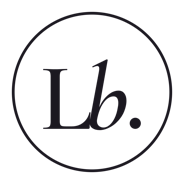
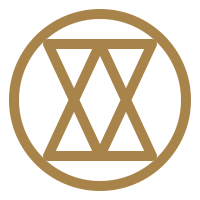
Emails: new fold mark + origami facet; fix stale Lb./Lifebook branding
Every email (daily brief, sign-in code, invitations, surfaced-task, review and
event reminders) and the push-notification icon were still showing the old
Lifebook "Lb." mark, and the sign-in + invite emails carried a "Lifebook"
wordmark two rebrands out of date.

- Regenerate email-mark.png as the gold fold mark; version the URL (?v=2) across
  all templates + the client notification icon so caches fetch it fresh.
- Fix the "Lifebook" wordmark to "LifeFold" in the sign-in and invite emails.
- Add a subtle origami facet to each email header: a folded-paper gradient with a
  seamless solid fallback, so Apple Mail/iOS show the fold and Gmail/Outlook fall
  back to clean paper (no broken layout).

diff --git a/worker/index.js b/worker/index.js
@@ -2583,8 +2583,8 @@ function brandedSystemEmail({ home, eyebrow, headline, bodyHtml, ctaHref, ctaLab
   <table role="presentation" width="100%" cellpadding="0" cellspacing="0" style="background:${PAPER};padding:34px 0 46px">
     <tr><td align="center" style="padding:0 12px">
       <table role="presentation" width="100%" cellpadding="0" cellspacing="0" style="width:100%;max-width:560px;background:${CARD};border:1px solid ${RULE};border-radius:2px">
-        <tr><td align="center" style="padding:40px 34px 0">
-          <a href="${home}" style="text-decoration:none"><img src="https://lifefold.co/email-mark.png" width="46" height="46" alt="LifeFold" style="display:block;margin:0 auto;border:0;outline:none;text-decoration:none"></a>
+        <tr><td align="center" style="padding:40px 34px 0;background:${CARD};background-image:linear-gradient(121deg, rgba(255,251,242,0.7) 0 44%, rgba(168,132,74,0.055) 44.6%)">
+          <a href="${home}" style="text-decoration:none"><img src="https://lifefold.co/email-mark.png?v=2" width="46" height="46" alt="LifeFold" style="display:block;margin:0 auto;border:0;outline:none;text-decoration:none"></a>
           ${eyebrow ? `<p style="margin:9px 0 0;font-family:${SANS};font-size:12px;letter-spacing:0.34em;text-transform:uppercase;color:${MIST}">${escHtml(eyebrow)}</p>` : ''}
           <p style="margin:14px 0 0;font-family:${SERIF};font-size:30px;line-height:1.25;color:${INK}">${escHtml(headline)}</p>
         </td></tr>

diff --git a/public/app.html b/public/app.html
@@ -11,7 +11,7 @@
      while scrolling. The app linkifies real http(s) URLs itself. -->
 <meta name="format-detection" content="telephone=no, date=no, address=no, email=no">
 <title>LifeFold</title>
-<link rel="icon" href="/favicon.svg?v=202610210008">
+<link rel="icon" href="/favicon.svg?v=202610210956">
 <!-- Installable to the home screen: launches full-screen with its own icon. -->
 <link rel="manifest" href="/manifest.webmanifest">
 <link rel="apple-touch-icon" href="/apple-touch-icon.v10.png">
@@ -21,7 +21,7 @@
 <meta name="apple-mobile-web-app-title" content="LifeFold">
 <meta name="theme-color" content="#f4f1ea" media="(prefers-color-scheme: light)">
 <meta name="theme-color" content="#131019" media="(prefers-color-scheme: dark)">
-<link rel="stylesheet" href="/life.css?v=202610210008">
+<link rel="stylesheet" href="/life.css?v=202610210956">
 <script>
   try {
     const t = localStorage.getItem('today.theme');
@@ -53,7 +53,7 @@
   <button class="undo-fab" id="undo-fab" data-undo type="button" aria-label="Undo the last change" title="Undo"><span class="uf-ic" aria-hidden="true">↶</span><span class="uf-l">Undo</span></button>
   <div id="palette"></div>
   <div id="toast" class="toast" hidden></div>
-  <script src="/qrcode.min.js?v=202610210008"></script>
-  <script src="/app.js?v=202610210008"></script>
+  <script src="/qrcode.min.js?v=202610210956"></script>
+  <script src="/app.js?v=202610210956"></script>
 </body>
 </html>

diff --git a/worker/invite-email.js b/worker/invite-email.js
@@ -33,9 +33,9 @@ export function inviteEmail({ from, message, link, tagline, accent }) {
       <!-- Fluid card: 100% up to a 440px cap, so it fits a phone screen. -->
       <table role="presentation" width="100%" cellpadding="0" cellspacing="0" style="width:100%;max-width:440px;background:#fbf9f4;border-radius:18px;overflow:hidden;border:1px solid #e4ddcf">
 
-        <tr><td style="padding:34px 38px 0" align="center">
-          <img src="https://lifefold.co/email-mark.png" width="46" height="46" alt="LifeFold" style="display:block;margin:0 auto;border:0;outline:none;text-decoration:none">
-          <p style="margin:13px 0 0;font-family:Georgia,'Times New Roman',serif;font-size:27px;font-weight:700;letter-spacing:-0.01em;color:#211c17">Life<i>book</i></p>
+        <tr><td style="padding:34px 38px 0;background:#fbf9f4;background-image:linear-gradient(121deg, rgba(255,251,242,0.7) 0 44%, rgba(168,132,74,0.055) 44.6%)" align="center">
+          <img src="https://lifefold.co/email-mark.png?v=2" width="46" height="46" alt="LifeFold" style="display:block;margin:0 auto;border:0;outline:none;text-decoration:none">
+          <p style="margin:13px 0 0;font-family:Georgia,'Times New Roman',serif;font-size:27px;font-weight:700;letter-spacing:-0.01em;color:#211c17">Life<i>Fold</i></p>
         </td></tr>
 
         <tr><td style="padding:22px 38px 0">

diff --git a/worker/auth.js b/worker/auth.js
@@ -376,9 +376,9 @@ export function codeEmail(code, kind) {
              name and the tagline. alt is empty on purpose: with images off the
              serif wordmark below already says LifeFold, so a blocked image
              should leave nothing behind rather than a second "LifeFold". -->
-        <tr><td style="padding:34px 38px 0" align="center">
-          <img src="https://lifefold.co/email-mark.png" width="46" height="46" alt="LifeFold" style="display:block;margin:0 auto;border:0;outline:none;text-decoration:none">
-          <p style="margin:13px 0 0;font-family:Georgia,'Times New Roman',serif;font-size:27px;font-weight:700;letter-spacing:-0.01em;color:#211c17">Life<i>book</i></p>
+        <tr><td style="padding:34px 38px 0;background:#fbf9f4;background-image:linear-gradient(121deg, rgba(255,251,242,0.7) 0 44%, rgba(168,132,74,0.055) 44.6%)" align="center">
+          <img src="https://lifefold.co/email-mark.png?v=2" width="46" height="46" alt="LifeFold" style="display:block;margin:0 auto;border:0;outline:none;text-decoration:none">
+          <p style="margin:13px 0 0;font-family:Georgia,'Times New Roman',serif;font-size:27px;font-weight:700;letter-spacing:-0.01em;color:#211c17">Life<i>Fold</i></p>
         </td></tr>
 
         <!-- A warm keyline. Solid cells: gradients are the first thing Outlook drops. -->

diff --git a/worker/brief.js b/worker/brief.js
@@ -193,8 +193,8 @@ export function briefEmail({ day, events = [], tasks = [], quote = null, siteUrl
 
         <!-- The LifeFold mark as a PNG: the favicon is an SVG and every major
              client strips those. Same file the sign-in and invitation emails use. -->
-        <tr><td align="center" style="padding:40px 34px 0">
-          <a href="${siteUrl}" style="text-decoration:none"><img src="https://lifefold.co/email-mark.png" width="46" height="46" alt="LifeFold" style="display:block;margin:0 auto;border:0;outline:none;text-decoration:none"></a>
+        <tr><td align="center" style="padding:40px 34px 0;background:${CARD};background-image:linear-gradient(121deg, rgba(255,251,242,0.7) 0 44%, rgba(168,132,74,0.055) 44.6%)">
+          <a href="${siteUrl}" style="text-decoration:none"><img src="https://lifefold.co/email-mark.png?v=2" width="46" height="46" alt="LifeFold" style="display:block;margin:0 auto;border:0;outline:none;text-decoration:none"></a>
           <p style="margin:22px 0 0;font-family:${SERIF};font-size:30px;line-height:1.25;color:${INK}">${esc(longDate(day))}</p>
           <p style="margin:9px 0 0;font-family:${SANS};font-size:12px;letter-spacing:0.34em;text-transform:uppercase;color:${MIST}">Good morning</p>
         </td></tr>

diff --git a/public/index.html b/public/index.html
@@ -30,8 +30,8 @@
     document.documentElement.dataset.theme = dark ? 'dark' : 'light';
   })();
 </script>
-<link rel="stylesheet" href="/today.css?v=202610210008">
-<link rel="icon" href="/favicon.svg?v=202610210008">
+<link rel="stylesheet" href="/today.css?v=202610210956">
+<link rel="icon" href="/favicon.svg?v=202610210956">
 <!-- Analytics (VisitorTracking + Google Analytics), loaded ONLY after consent -->
 <style>
 .dbk-consent { position:fixed; left:0; right:0; bottom:0; z-index:99999; display:flex; flex-wrap:wrap; align-items:center; justify-content:center; gap:14px 22px; padding:16px 20px; background:var(--card,#fffdf8); border-top:1px solid var(--line,rgba(27,24,32,.12)); box-shadow:0 -10px 34px -20px rgba(0,0,0,.55); color:var(--ink,#1b1820); }
@@ -340,6 +340,6 @@
 
 <div class="toast" id="toast" hidden></div>
 
-<script type="module" src="/today.js?v=202610210008"></script>
+<script type="module" src="/today.js?v=202610210956"></script>
 </body>
 </html>

diff --git a/public/app.js b/public/app.js
@@ -10309,7 +10309,7 @@ function fireEventAlarm(e, mins) {
   try { navigator.vibrate && navigator.vibrate([180, 90, 180]); } catch {}
   try {
     if ('Notification' in window && Notification.permission === 'granted') {
-      const n = new Notification(e.title || 'Event reminder', { body: mins <= 0 ? 'Starting now' : `Starts in ${mins} minute${mins === 1 ? '' : 's'}`, tag: 'daybook-ev-' + e.id, icon: 'https://lifefold.co/email-mark.png' });
+      const n = new Notification(e.title || 'Event reminder', { body: mins <= 0 ? 'Starting now' : `Starts in ${mins} minute${mins === 1 ? '' : 's'}`, tag: 'daybook-ev-' + e.id, icon: 'https://lifefold.co/email-mark.png?v=2' });
       n.onclick = () => { try { window.focus(); openCalendar(todayISO()); } catch {} n.close(); };
     }
   } catch {}

diff --git a/public/life.html b/public/life.html
@@ -4,8 +4,8 @@
 <meta charset="utf-8">
 <meta name="viewport" content="width=device-width, initial-scale=1, viewport-fit=cover">
 <title>Robski · Life</title>
-<link rel="icon" href="/favicon.svg?v=202610210008">
-<link rel="stylesheet" href="/life.css?v=202610210008">
+<link rel="icon" href="/favicon.svg?v=202610210956">
+<link rel="stylesheet" href="/life.css?v=202610210956">
 <script>
   // Stamp the theme before first paint so there's no flash.
   try {

diff --git a/public/tables.html b/public/tables.html
@@ -4,8 +4,8 @@
 <meta charset="utf-8">
 <meta name="viewport" content="width=device-width, initial-scale=1, viewport-fit=cover">
 <title>Robski · Life · Tables</title>
-<link rel="icon" href="/favicon.svg?v=202610210008">
-<link rel="stylesheet" href="/life.css?v=202610210008">
+<link rel="icon" href="/favicon.svg?v=202610210956">
+<link rel="stylesheet" href="/life.css?v=202610210956">
 <script>
   try {
     const t = localStorage.getItem('today.theme');

diff --git a/public/notes.html b/public/notes.html
@@ -4,8 +4,8 @@
 <meta charset="utf-8">
 <meta name="viewport" content="width=device-width, initial-scale=1, viewport-fit=cover">
 <title>Robski · Life · Notes</title>
-<link rel="icon" href="/favicon.svg?v=202610210008">
-<link rel="stylesheet" href="/life.css?v=202610210008">
+<link rel="icon" href="/favicon.svg?v=202610210956">
+<link rel="stylesheet" href="/life.css?v=202610210956">
 <script>
   try {
     const t = localStorage.getItem('today.theme');
